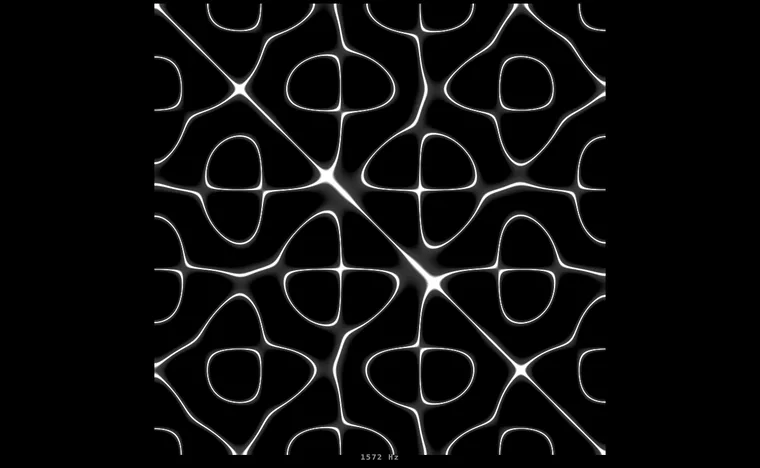
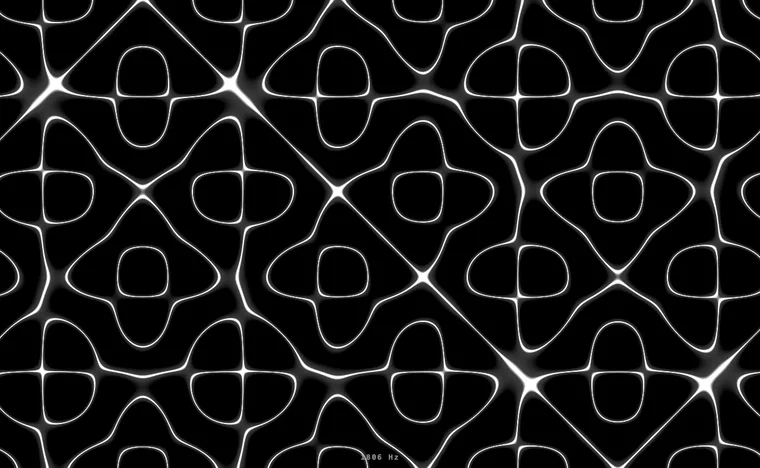
examples(chladni): full-screen, undistorted
Map pixels to plate space with one uniform scale (unit plate fills the shorter side; the
longer side extends the periodic figure), so the canvas can be full-viewport at any aspect
with the nodal lines staying perfectly square — no centred-square letterbox. jz==JS pixel-exact.

diff --git a/examples/chladni/index.html b/examples/chladni/index.html
@@ -8,8 +8,8 @@
 <style>
   html, body { height: 100%; margin: 0; overflow: hidden; background: #000; color: #eee;
     font-family: ui-monospace, SFMono-Regular, Menlo, monospace; }
-  body { border-top: 2px solid #ddd; display: grid; place-items: center; }
-  #c { display: block; image-rendering: pixelated; box-shadow: 0 0 60px #0006; }
+  body { border-top: 2px solid #ddd; }
+  #c { position: fixed; inset: 0; width: 100%; height: 100%; display: block; image-rendering: pixelated; }
   /* the driving frequency — the soul of the Camerata generator (after Demian Conrad) */
   #hz { position: fixed; left: 50%; bottom: 18px; transform: translateX(-50%); z-index: 30;
     font: 600 13px/1 ui-monospace, Menlo, monospace; letter-spacing: .12em; color: #aaa;
@@ -24,17 +24,16 @@
 import { loadEngine, hud } from "../lib/jzdemo.js"
 
 const cv = document.getElementById("c"), g = cv.getContext("2d"), hzEl = document.getElementById("hz")
-let S = 0, img, out32, px
+let img, out32, px
 
-// Square plate, centred — the nodal figure is defined on [0,1]² so we render it square.
+// Full-screen at device-pixel res; the kernel maps to the plate with one uniform scale,
+// so the nodal figure stays square at any aspect (the long side just shows more of it).
 const sizeTo = (engine) => {
   const dpr = Math.min(2, window.devicePixelRatio || 1)
-  const cssSide = Math.max(160, Math.min(innerWidth, innerHeight) - 40)
-  S = Math.round(cssSide * dpr) >> 1 << 1   // full square at device-pixel res
-  cv.width = cv.height = S
-  cv.style.width = cv.style.height = cssSide + "px"
-  img = g.createImageData(S, S); out32 = new Uint32Array(img.data.buffer)
-  px = engine.resize(S, S)
+  const W = Math.round(innerWidth * dpr) >> 1 << 1, H = Math.round(innerHeight * dpr) >> 1 << 1
+  cv.width = W; cv.height = H
+  img = g.createImageData(W, H); out32 = new Uint32Array(img.data.buffer)
+  px = engine.resize(W, H)
 }
 
 let engine = null, gen = 0, t = 0

diff --git a/examples/chladni/chladni.js b/examples/chladni/chladni.js
@@ -7,11 +7,14 @@
 // of (2,1) up to dense lattices. Per pixel: two cos (the y-terms hoist per row) and a
 // divide-free ridge for the line — jz's throughput sweet spot. Same source = the V8
 // baseline (imported) and the compiled wasm.
-let W = 0, H = 0, px, invW = 0, invH = 0
+let W = 0, H = 0, px, SC = 0, cx = 0, cy = 0   // uniform plate scale + viewport centre
 let nArr, mArr, NMODES = 0      // (n,m) mode pairs, ascending eigenfrequency √(n²+m²)
 
 export let resize = (w, h) => {
-  W = w; H = h; invW = 1.0 / w; invH = 1.0 / h
+  // Map pixels to plate space with ONE uniform scale (no stretch): the unit plate [0,1]²
+  // fills the shorter screen side and the longer side extends the periodic figure — so the
+  // canvas can be full-screen at any aspect and the nodal lines stay perfectly square.
+  W = w; H = h; SC = 1.0 / (w < h ? w : h); cx = w * 0.5; cy = h * 0.5
   px = new Uint32Array(w * h)
   // Enumerate distinct pairs 1 ≤ n < m ≤ 12 and insertion-sort by n²+m² (∝ eigenfreq),
   // so frequency sweeps simple→complex figures. Integer modes ride Int32Arrays (a scalar
@@ -50,12 +53,12 @@ export let frame = (freq) => {
 
   let j = 0, py = 0
   while (py < H) {
-    let y = py * invH
+    let y = (py - cy) * SC + 0.5
     let cyn = Math.cos(nP * y)     // y-only terms — hoist once per row
     let cym = Math.cos(mP * y)
     let qx = 0
     while (qx < W) {
-      let x = qx * invW
+      let x = (qx - cx) * SC + 0.5
       let f = Math.cos(nP * x) * cym - Math.cos(mP * x) * cyn
       // Divide-free ridge: a sharp white core on the nodal line (f≈0) plus a wider,
       // softer glow → the Camerata thick-white-on-black look. No per-pixel divides.